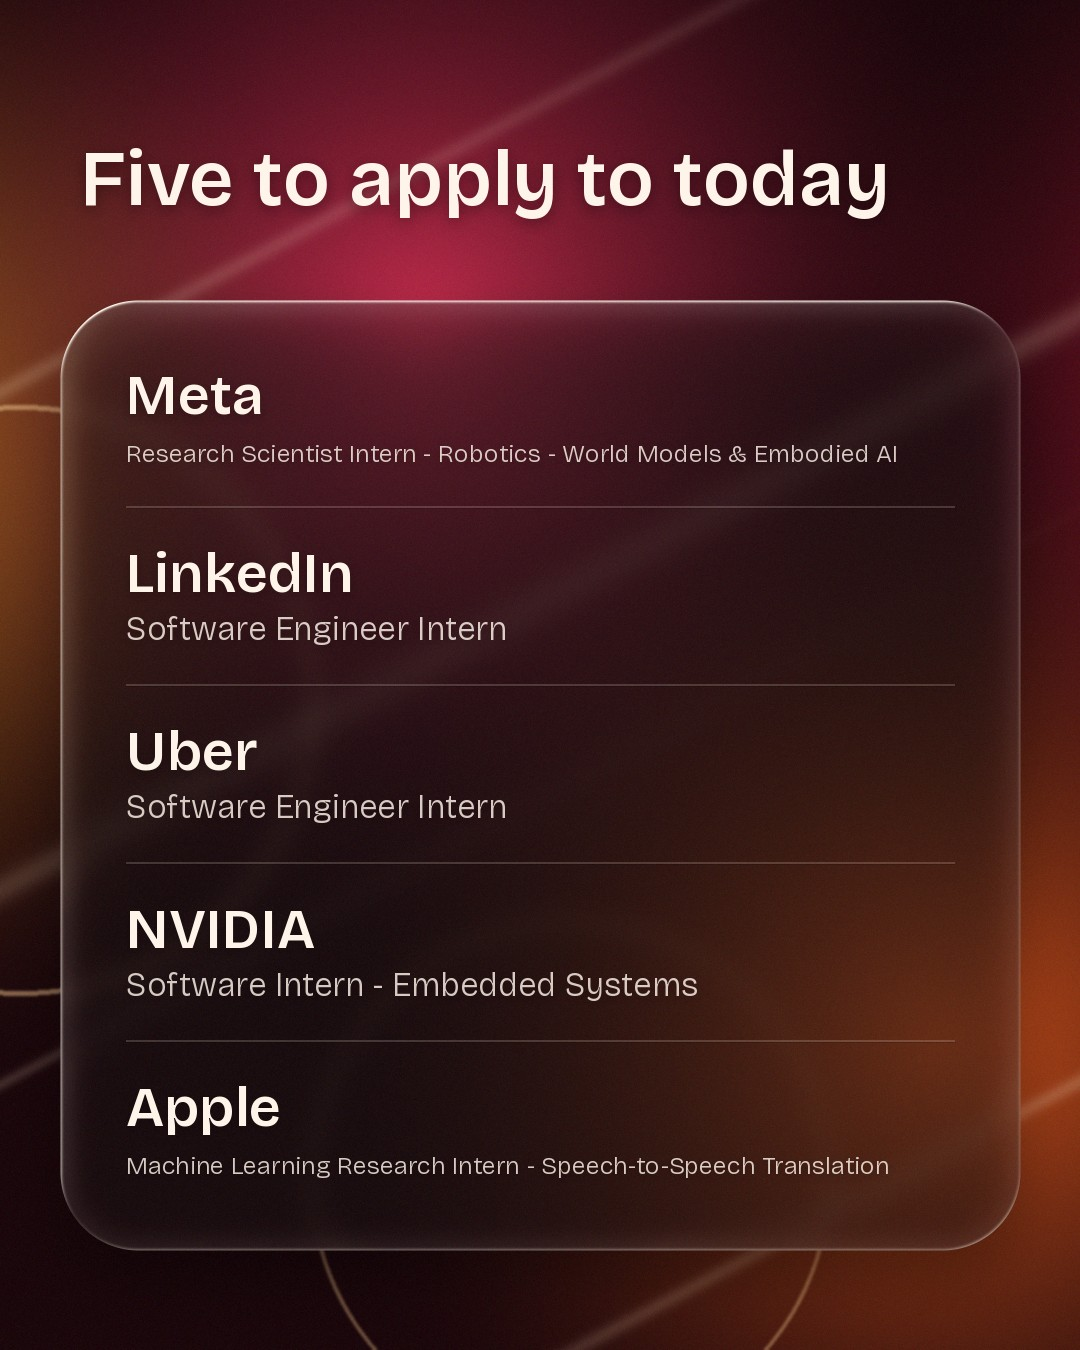
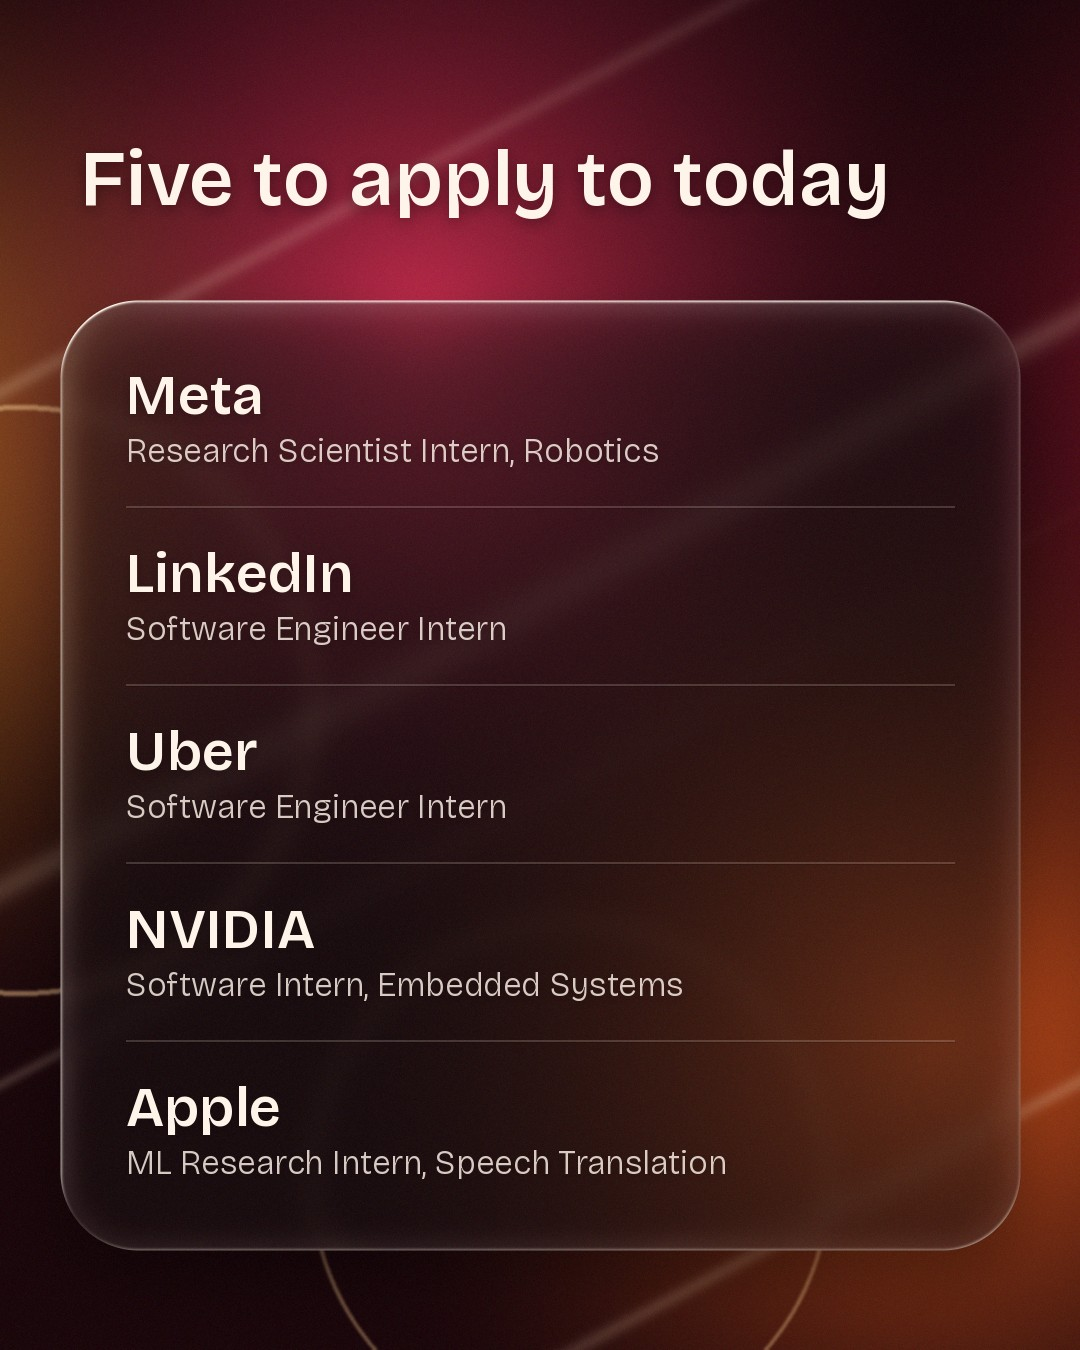
Let carousel picks carry a short display title
Long posting titles shrank to an inconsistent size on the picks slide.
Picks may now include an optional third item shown on the slide instead.

Claude-Session: https://claude.ai/code/session_013SsHi6hQm1o9VmvyViVcNr

Changed region(s): [[0.1222, 0.84, 0.825, 0.8711], [0.1222, 0.3111, 0.825, 0.3422], [0.3361, 0.7156, 0.6417, 0.7467]]

diff --git a/automation/internships/daily.py b/automation/internships/daily.py
@@ -8,7 +8,7 @@ today.json:
   "date": "Oct 22",
   "total": 65,                      # count from the email subject
   "postings": [["Company", "Role title", "<uuid>"], ...],   # every posting
-  "picks": [["Company", "Role title"], ... exactly 5]       # teaser slide
+  "picks": [["Company", "Exact title", "Short title (max 50 chars, optional)"], ... exactly 5]
 }
 
 Rewrites public/internships/index.html (data, date, count), renders the three
@@ -45,8 +45,11 @@ uuid_re = re.compile(r"^[0-9a-f]{8}-[0-9a-f]{4}-[0-9a-f]{4}-[0-9a-f]{4}-[0-9a-f]
 problems = []
 if not re.match(r"^[A-Z][a-z]{2} \d{1,2}$", date):
     problems.append(f"date should look like 'Oct 22', got {date!r}")
-if len(picks) != 5 or any(len(p) != 2 for p in picks):
-    problems.append("picks must be exactly 5 [company, title] pairs")
+if len(picks) != 5 or any(len(p) not in (2, 3) for p in picks):
+    problems.append("picks must be exactly 5 items: [company, title] or [company, title, short title]")
+for p in picks:
+    if len(p) == 3 and len(p[2]) > 50:
+        problems.append(f"short title too long ({len(p[2])} chars, max 50): {p[2]}")
 if any(len(r) != 3 or not uuid_re.match(r[2]) for r in rows):
     problems.append("every posting needs [company, title, uuid] with a valid uuid")
 if len({r[2] for r in rows}) != len(rows):
@@ -56,7 +59,7 @@ if len(rows) != total:
 blob = json.dumps(cfg).lower()
 if BANNED in blob:
     problems.append("input mentions the source; remove it")
-pick_set = {(p[0], p[1]) for p in picks}
+pick_set = {(p[0], p[1]) for p in picks if len(p) >= 2}
 row_set = {(r[0], r[1]) for r in rows}
 if not pick_set <= row_set:
     problems.append("a pick is not in the postings list: " + "; ".join(sorted(f"{a} | {b}" for a, b in pick_set - row_set)))

diff --git a/automation/internships/make_slides.py b/automation/internships/make_slides.py
@@ -1,7 +1,7 @@
 """Liquid-glass carousel: 3 slides (1080x1350) cut from one continuous 3240x1350 scene.
 
 Usage: python3 -I make_slides_glass.py OUT_DIR [data.json]
-data.json: {"date": "Oct 22", "total": 65, "picks": [["Meta", "Research Scientist Intern, Robotics"], ... 5 items]}
+data.json: {"date": "Oct 22", "total": 65, "picks": [["Meta", "Full posting title", "Short title"], ... 5 items]}
 """
 import json
 import os
@@ -26,7 +26,9 @@ PICKS = [
 if len(sys.argv) > 2:
     with open(sys.argv[2]) as fh:
         cfg = json.load(fh)
-    DATE, TOTAL, PICKS = cfg["date"], int(cfg["total"]), [tuple(p) for p in cfg["picks"]]
+    DATE, TOTAL = cfg["date"], int(cfg["total"])
+    # a pick is [company, title] or [company, title, shorter title to show on the slide]
+    PICKS = [(p[0], p[2] if len(p) > 2 else p[1]) for p in cfg["picks"]]
 assert len(PICKS) == 5
 
 W, H = 1080, 1350
